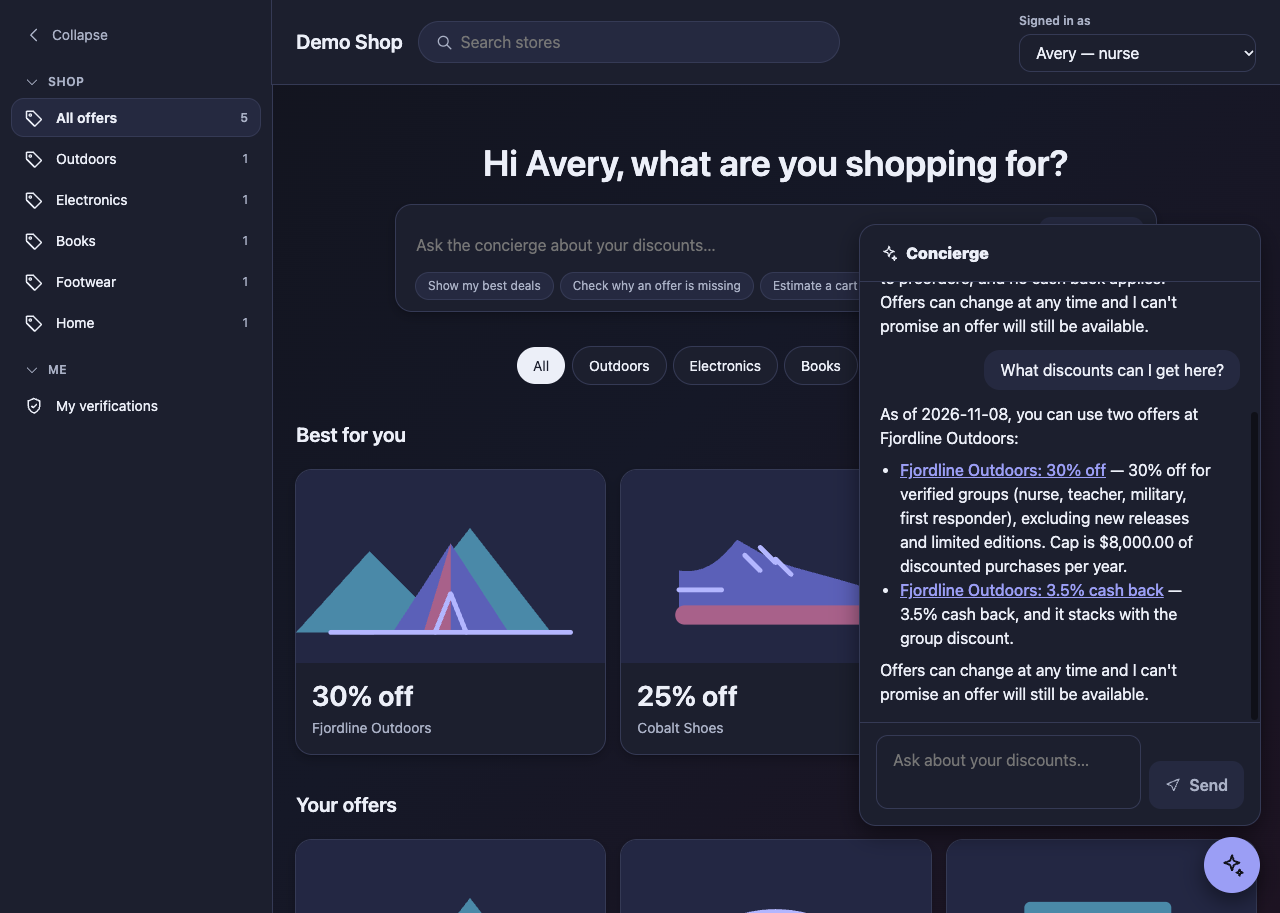
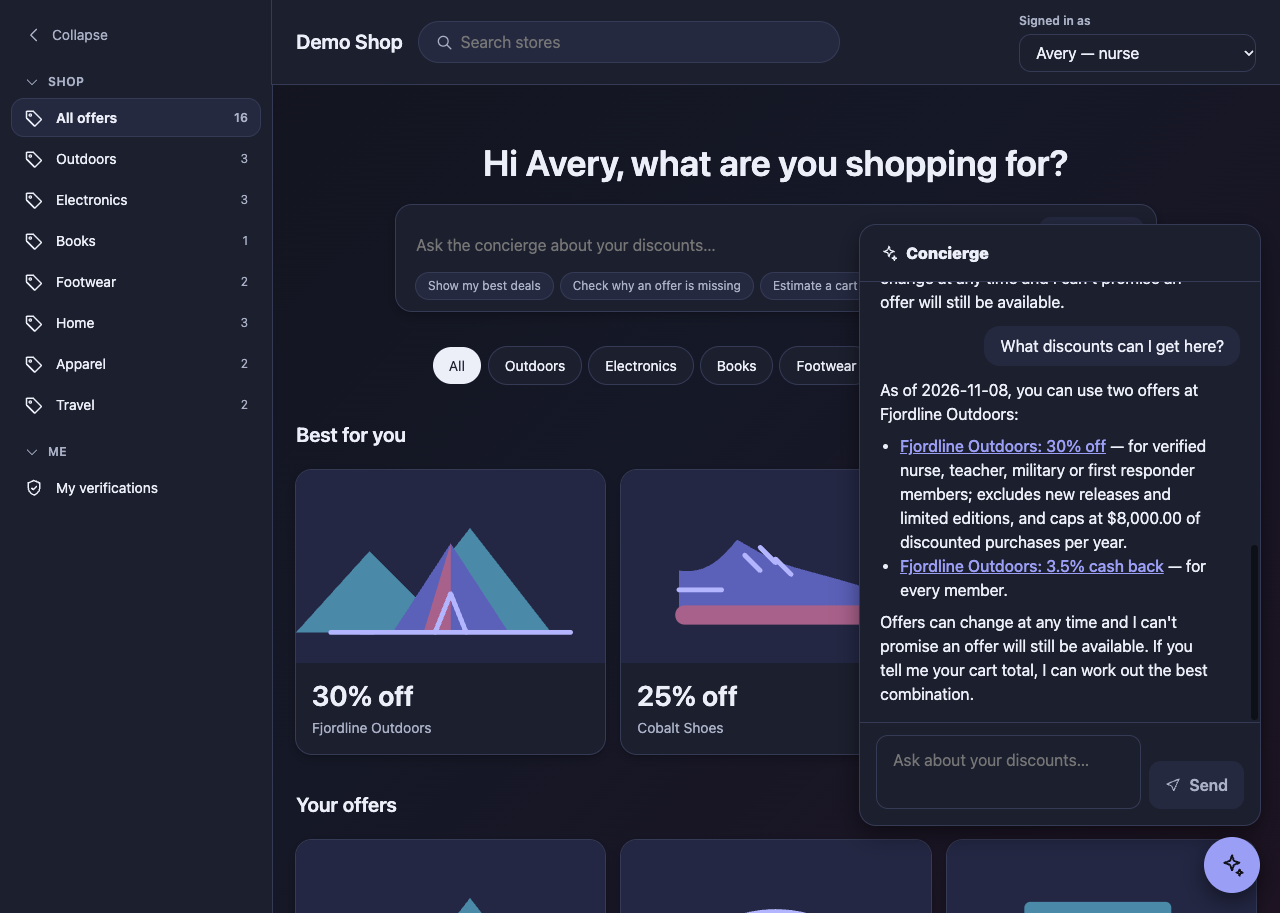
docs: brand offers, the switch and the disclaimer, new screenshots
README (what the brand offers are, the switch, design decision 11), CLAUDE.md rule (brand names as plain
text on invented offers only), docs/IMAGES.md (the new illustrations, no logos), the roadmap, .env.example
and refreshed screenshots including the full 19-store grid.

Changed region(s): [[0.3438, 0.3067, 0.9688, 0.7667], [0.0, 0.3987, 0.125, 0.46], [0.0312, 0.5214, 0.125, 0.552]]

diff --git a/README.md b/README.md
@@ -3,9 +3,12 @@
 ## What this is
 A small shopping demo that matches discounts to who you are. Pick a demo member and the home page greets you and shows, store by store, only the offers you qualify for. Not seeing one you expected? Ask the concierge why (verification expired, annual cap reached, group not verified). The concierge is an AI assistant, reachable from the ask box on the home page or from the floating button; it answers without making up discounts and without exposing other members' data.
 
-![Home: greeting, the ask box with three small prompts, and only the offers you qualify for](docs/screenshots/home-light.png)
+![Home as a military member: greeting, the ask box with three small prompts, and only the offers you qualify for](docs/screenshots/home-light.png)
+![All 19 stores for a teacher: the 13 invented brand offers each have their own illustration](docs/screenshots/brands-grid.png)
 ![A store page with the concierge widget](docs/screenshots/store-page.png)
 ![Dark mode (it follows the system)](docs/screenshots/dark-widget.png)
+
+**Familiar names, invented offers.** To make a demo recognisable, the catalog includes 13 well-known brands (Apple, lululemon, Nike, Samsung, IKEA and others) with offers I made up, for example teachers get 20% off a new Apple computer and military members get 15% off at lululemon. None of these brands offers these discounts and none is involved: the page footer, every one of these stores' descriptions and the concierge all say so. Brand names are plain text; there are no logos or brand photos, and each store has an original illustration. Set `CONCIERGE_BRAND_OFFERS=off` to leave only the six original invented stores.
 
 ## Status
 | Part | State |
@@ -19,6 +22,7 @@ A small shopping demo that matches discounts to who you are. Pick a demo member 
 | Shop page redesign, stage 2 (split view, contextual toolbar) | Waiting for your OK |
 | Floating concierge widget (`widget.js`) | Done (MVP, answers arrive whole, not streamed). Offers in answers are links to the store page; the window shows only the title, the suggestions, the messages and the input |
 | Live "as of" date | Done: today's real date, or the one in `CONCIERGE_TODAY` |
+| Invented offers under 13 familiar brand names, each with its own illustration | Done: on by default, `CONCIERGE_BRAND_OFFERS=off` turns them off |
 | "Show my best deals" with no store chosen | Done: one tool call (`list_all_eligible_offers`) lists up to five offers, largest percentage first, as links |
 | Eval run and pass rate | TODO (the runner is not wired yet) |
 | AI mistakes log | 2 real entries |
@@ -43,6 +47,7 @@ Working on the page: `cd web && npm run build:widget && npm run dev` (Vite proxi
 | `OPENROUTER_API_KEY`, `OPENROUTER_MODEL` | Use OpenRouter (cheap models for testing). The model id is not in the code. |
 | `ANTHROPIC_API_KEY` (or `ANTHROPIC_AUTH_TOKEN`), `ANTHROPIC_MODEL` | Use Anthropic instead |
 | `LLM_PROVIDER` | `openrouter` or `anthropic`. If unset: OpenRouter when its key is set, else Anthropic |
+| `CONCIERGE_BRAND_OFFERS` | Optional. `off`, `0`, `false` or `no` leaves only the six original invented stores; anything else (or unset) also shows the 13 brand stores. Read on every request |
 | `CONCIERGE_TODAY` | Optional, `YYYY-MM-DD`. Pins the "as of" date (for repeatable demos, evals and tests). Unset means today's real date, in the server's time zone. A bad value is ignored with a warning |
 
 A key for one provider is never sent to the other. Never set `ANTHROPIC_LOG=debug` expecting to see requests: the code keeps the SDK's debug logs off because they contain the member's message.
@@ -77,6 +82,7 @@ The page can then call `window.Concierge.setStore(id, name)`, `.open()`, `.close
 
 8. **Only what you qualify for.** The page never shows an offer you do not qualify for, and hides a store with none; the concierge explains why an offer is missing.
 9. **Tokens, not literals.** Every colour, radius, spacing step, shadow, font size and motion duration lives in `web/src/design/tokens.css` (light, dark, reduced motion). A test fails if one appears anywhere else, and others check AA contrast in both themes.
+11. **Invented offers under familiar names, kept honest.** The brand offers live in their own files (`data/brand_stores.json`, `data/brand_offers.json`) and are merged by `app/catalog.py`; the rules engine is untouched and every test but one file runs on the original six stores. Each brand store's description says the offers are invented, the footer says no brand offers these discounts, and the concierge's rules tell it to say so if asked.
 10. **The server writes the links.** When the concierge names an offer you can use, it copies a ready-made link (`link_markdown`, from `app/links.py`) such as `[Cobalt Shoes: 4% cash back](#/store/s4)`, which opens that store page in this shop. The model never builds an address, offers you cannot use get no link, and the page turns a link into a link only when its address is exactly `#/store/<id>`; anything else (`https://...`, `javascript:`, `..`) stays visible text. This stops an offer's untrusted terms text from steering the model into a bad link.
 
 ## Design

diff --git a/docs/IMAGES.md b/docs/IMAGES.md
@@ -1,13 +1,13 @@
 # Store pictures
 
-Every store tile and store page shows a picture. Nothing is downloaded or scraped: by default the page draws an **original illustration** in code (a tent, headphones, books, a sneaker, a lamp, a laptop), coloured from the design tokens so it works in light and dark.
+Every store tile and store page shows a picture. Nothing is downloaded or scraped: by default the page draws an **original illustration** in code, coloured from the design tokens so it works in light and dark. The six original stores have a tent, headphones, books, a sneaker, a lamp and a laptop; each of the 13 invented brand stores has its own everyday object (devices, a phone, a TV, a yoga mat and top, jeans, a running shoe, a backpack, a jacket, a sofa, a toolbox, an open book, a hotel, a car). They show objects only: no logos and no brand marks.
 
 ## Using your own photo
 
 If you have a photo you are allowed to use, it replaces the illustration for that store.
 
 1. Put the file in `web/public/stores/`, for example `web/public/stores/s1.jpg`. A 16:10 crop around 1280×800 works well; keep it under about 300 KB. Allowed types: jpg, jpeg, png, webp, avif.
-2. In `data/stores.json`, set two fields on that store:
+2. In `data/stores.json` (or `data/brand_stores.json` for a brand store), set two fields on that store:
    ```json
    "image": "/stores/s1.jpg",
    "image_credit": "Jane Doe, CC BY 4.0"
@@ -21,7 +21,7 @@ If the file is missing or cannot be loaded, the illustration comes back by itsel
 ## What is safe to use
 
 - Photos you took, or that are licensed for this use. Read the licence: many need the credit line above.
-- Not brand logos, and not product photos you do not hold the rights to. The demo's stores are fictional (the README says so); using a real brand's photos would suggest the brand is involved.
+- Not brand logos, and not product photos you do not hold the rights to. The demo's offers are invented (the README says so), even where a store uses a real brand's name as plain text; using that brand's logo or official photos would make an invented offer look official.
 - This project has a "no scraping" rule (`CLAUDE.md`), so there is no script that fetches pictures from other sites.
 
 ## Notes

diff --git a/docs/PLAN.md b/docs/PLAN.md
@@ -19,6 +19,7 @@ Working plan for the concierge demo. The roadmap (M0-M9) comes first. **Appendix
 | UI redesign, stage 1 | Design tokens, sidebar, home with ask box and suggestions, store tiles with illustrations, store pages, dark mode, qualified-offers-only, widget restyle | Done (290 web tests, 56 real-browser checks). Later tweaks at your request: no light/dark switch (dark follows the system), no as-of line under the greeting, the three prompts are small chips inside the ask box. Not yet committed |
 | Live date, store links, lean widget | `app/clock.py` (real date or `CONCIERGE_TODAY`); the server writes `link_markdown` for offers a member can use and the page renders only `#/store/<id>` links; the concierge window shows only title, suggestions, messages and input | Done (354 web tests, 62 real-browser checks, 13 live runs). Not yet committed |
 | Best deals with no store | New read-only tool `list_all_eligible_offers` plus a prompt rule; the concierge answers "Show my best deals" straight away instead of asking which store | Done (494 Python tests, 64 real-browser checks, 40 of 40 live runs called the tool and listed valid links). Not yet committed. An eval question for it is not added: `tests/test_evals.py` requires a real `store_id` |
+| Brand offers for demos | `app/catalog.py` merges 13 invented brand stores (24 offers) into the catalog, on by default, `CONCIERGE_BRAND_OFFERS=off` to turn off; 13 original illustrations; footer, store blurbs and the concierge's rules say the offers are invented | Done (561 Python tests, 395 web tests, 72 real-browser checks). Not yet committed |
 | UI redesign, stage 2 | Chat thread shared by widget and page, split view with draggable divider, contextual toolbar | Waits for your OK, as `docs/UI_DESIGN.md` asks |
 | M1 Steps 5-7 | Server wiring is done (above); eval runner wiring and `must_call_tool` checks, then a live eval run | Not started (`evals/run_evals.py` `ask()` is still a stub) |
 | M2 | Walking skeleton (page + widget) is done in the MVP; Dockerfile and compose are not | Docker not started |

diff --git a/CLAUDE.md b/CLAUDE.md
@@ -20,6 +20,7 @@ Unofficial concept demo of a shopping assistant. All data is fake. Not affiliate
 - Do not log message content or personal data. Do not put real keys anywhere: use `.env` (git-ignored).
 - Do not edit existing tests to make them pass. If a test is wrong, say so and ask.
 - No real ID.me logos, styling or page copies. No scraping. No real member data.
+- Brand names (Apple, lululemon, ...) appear as plain text on invented offers only: no logos, no brand photos, and every surface (footer, store description, the concierge) says the offers are invented.
 
 ## How to work
 1. Plan first (Plan Mode) and wait for approval.
